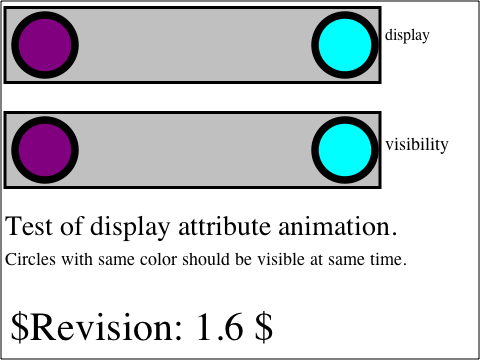
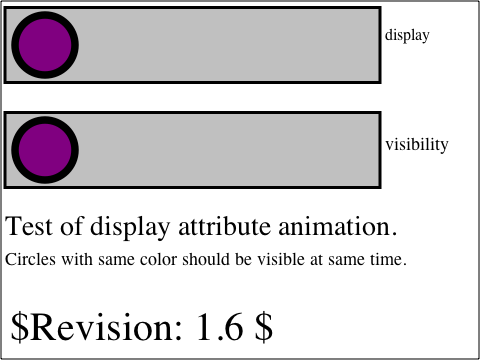
2011-02-15  Dirk Schulze  <krit@webkit.org>
Rubber-stamped by Nikolas Zimmermann.

        SVG animation doesn't support attribute value 'inherit'
        https://bugs.webkit.org/show_bug.cgi?id=54410

        Accidently replaced start value RegularPropertyValue for m_fromPropertyValueType
        and m_toPropertyValueType by CurrentColorValue before landing. Check for property
        value type 'inherit' on color validation was missing.

        * svg/SVGAnimateElement.cpp:
        (WebCore::SVGAnimateElement::calculateFromAndToValues):
        (WebCore::SVGAnimateElement::calculateFromAndByValues):
2011-02-15  Dirk Schulze  <krit@webkit.org>

        Rubber-stamped by Nikolas Zimmermann.

        SVG animation doesn't support attribute value 'inherit'
        https://bugs.webkit.org/show_bug.cgi?id=54410

        We have support for 'inherit' in SVG animations now. This means the cyan circles
        are invisible at the beginning.
        The test itself is still broken, since calcMode gets handled incorrectly.

        * platform/mac-wk2/Skipped:
        * platform/mac/svg/W3C-SVG-1.1/animate-elem-31-t-expected.checksum:
        * platform/mac/svg/W3C-SVG-1.1/animate-elem-31-t-expected.png:
        * platform/mac/svg/W3C-SVG-1.1/animate-elem-31-t-expected.txt:

git-svn-id: https://svn.webkit.org/repository/webkit/trunk@78552 268f45cc-cd09-0410-ab3c-d52691b4dbfc

Changed region(s): [[0.625, 0.3056, 0.8125, 0.5194], [0.625, 0.0306, 0.8125, 0.2139]]

diff --git a/Source/WebCore/svg/SVGAnimateElement.cpp b/Source/WebCore/svg/SVGAnimateElement.cpp
@@ -307,8 +307,8 @@ bool SVGAnimateElement::calculateFromAndToValues(const String& fromString, const
     SVGElement* targetElement = this->targetElement();
     if (!targetElement)
         return false;
-    m_fromPropertyValueType = inheritsFromProperty(targetElement, attributeName(), fromString) ? InheritValue : CurrentColorValue;
-    m_toPropertyValueType = inheritsFromProperty(targetElement, attributeName(), toString) ? InheritValue : CurrentColorValue;
+    m_fromPropertyValueType = inheritsFromProperty(targetElement, attributeName(), fromString) ? InheritValue : RegularPropertyValue;
+    m_toPropertyValueType = inheritsFromProperty(targetElement, attributeName(), toString) ? InheritValue : RegularPropertyValue;
 
     // FIXME: Needs more solid way determine target attribute type.
     m_propertyType = determinePropertyType(attributeName());
@@ -323,8 +323,9 @@ bool SVGAnimateElement::calculateFromAndToValues(const String& fromString, const
             m_toPropertyValueType = CurrentColorValue;
         else
             m_toColor = SVGColor::colorFromRGBColorString(toString);
-        if (((m_fromColor.isValid() || fromIsCurrentColor) && (m_toColor.isValid() || toIsCurrentColor))
-            || ((m_toColor.isValid() || toIsCurrentColor) && animationMode() == ToAnimation))
+        bool fromIsValid = m_fromColor.isValid() || fromIsCurrentColor || m_fromPropertyValueType == InheritValue;
+        bool toIsValid = m_toColor.isValid() || toIsCurrentColor || m_toPropertyValueType == InheritValue;
+        if ((fromIsValid && toIsValid) || (toIsValid && animationMode() == ToAnimation))
             return true;
     } else if (m_propertyType == NumberProperty) {
         m_numberUnit = String();
@@ -361,8 +362,8 @@ bool SVGAnimateElement::calculateFromAndByValues(const String& fromString, const
     SVGElement* targetElement = this->targetElement();
     if (!targetElement)
         return false;
-    m_fromPropertyValueType = inheritsFromProperty(targetElement, attributeName(), fromString) ? InheritValue : CurrentColorValue;
-    m_toPropertyValueType = inheritsFromProperty(targetElement, attributeName(), byString) ? InheritValue : CurrentColorValue;
+    m_fromPropertyValueType = inheritsFromProperty(targetElement, attributeName(), fromString) ? InheritValue : RegularPropertyValue;
+    m_toPropertyValueType = inheritsFromProperty(targetElement, attributeName(), byString) ? InheritValue : RegularPropertyValue;
 
     ASSERT(!hasTagName(SVGNames::setTag));
     m_propertyType = determinePropertyType(attributeName());
